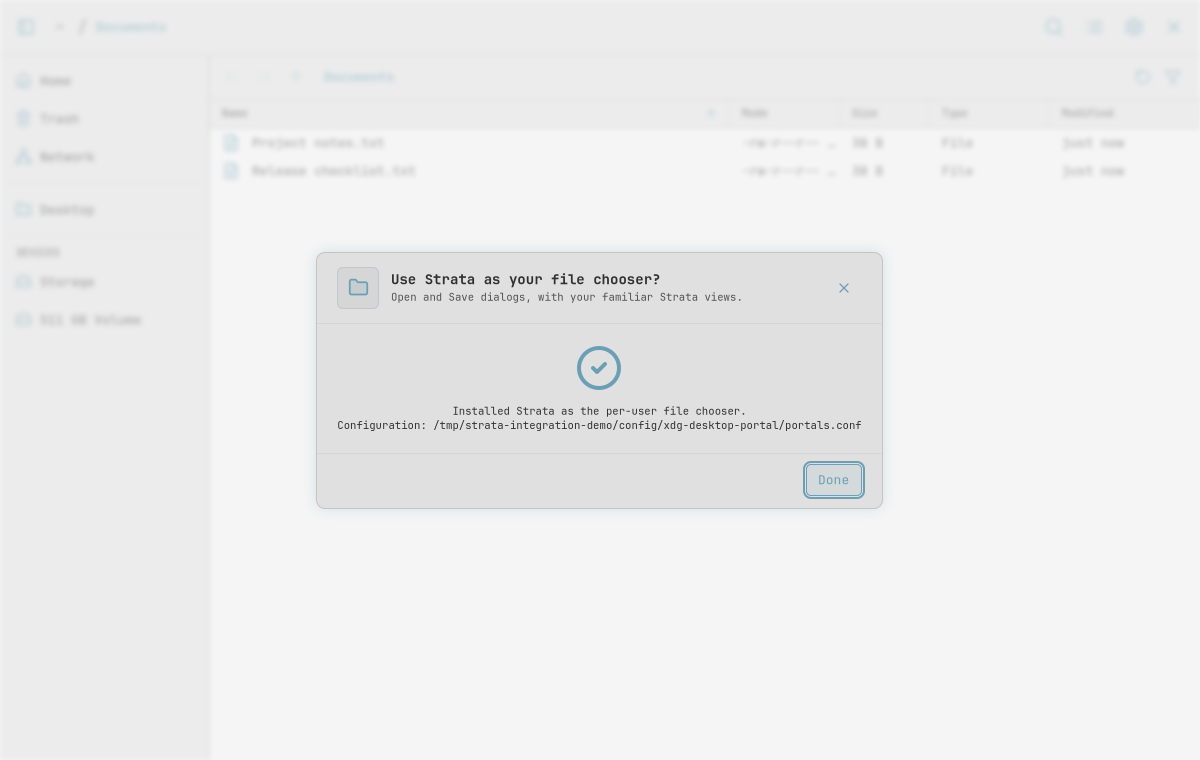
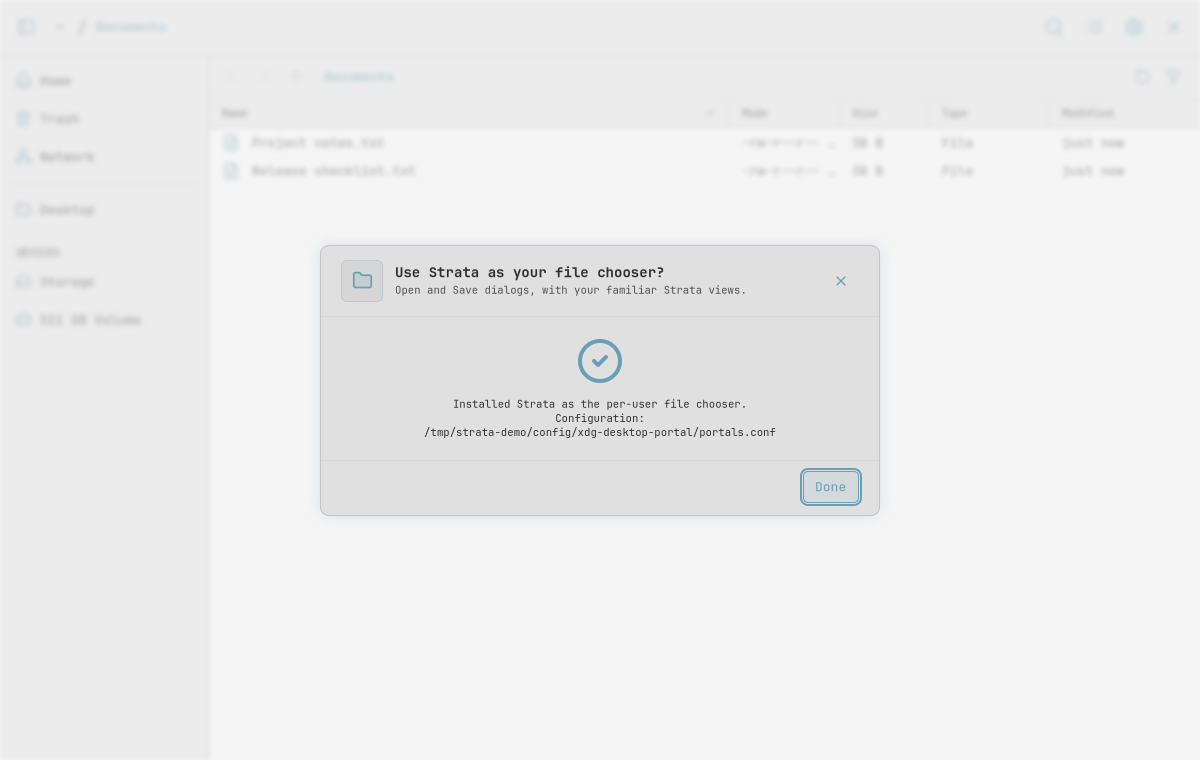
fix(portal): keep integration dialogs compact
Refs #120

diff --git a/src/ui/portal_preferences/tests.rs b/src/ui/portal_preferences/tests.rs
@@ -28,6 +28,14 @@ fn setup_copy_aligns_and_success_replaces_the_explanation() {
     gtk::init().expect("GTK display");
     gio::resources_register_include!("strata.gresource").expect("bundled icons");
     crate::ui::prepare_portal_ui();
+    let display = gtk::gdk::Display::default().expect("display");
+    let provider = gtk::CssProvider::new();
+    provider.load_from_string(".portal-setup-dialog { font-size: 16px; }");
+    gtk::style_context_add_provider_for_display(
+        &display,
+        &provider,
+        gtk::STYLE_PROVIDER_PRIORITY_APPLICATION + 1,
+    );
     for offer in [true, false] {
         let overlay = gtk::Overlay::new();
         let window = gtk::Window::builder()
@@ -51,17 +59,43 @@ fn setup_copy_aligns_and_success_replaces_the_explanation() {
         );
         assert!(description.is_mapped());
         assert!(!success.is_visible());
+        let content = status.parent().expect("body").parent().expect("dialog");
+        assert!(
+            content.width() <= 760,
+            "initial offer stays compact: {}",
+            content.width()
+        );
+        dialog
+            .confirm
+            .upgrade()
+            .expect("confirm")
+            .set_label("Restore previous chooser");
+        dialog.message("Strata is currently configured as your preferred file chooser. Restoring removes this integration and preserves unrelated configuration edits.", false);
+        settle();
+        assert!(
+            content.width() <= 760,
+            "configured Settings dialog stays compact: {}",
+            content.width()
+        );
         dialog.message("Setup failed; your previous chooser is unchanged.", true);
         assert!(status.has_css_class("error"));
+        settle();
+        assert!(content.width() <= 760);
         assert!(description.is_visible());
         assert!(!success.is_visible());
 
-        dialog.complete(
-            "Installed Strata as the per-user file chooser.\nConfiguration: /example/portals.conf",
-        );
+        dialog.complete(&format!(
+            "Installed Strata as the per-user file chooser.\nConfiguration: /example/{}/portals.conf",
+            "long-config-directory/".repeat(8),
+        ));
         settle();
         assert!(!description.is_visible());
         assert!(success.is_mapped());
+        assert!(
+            content.width() <= 760,
+            "long configuration paths wrap: {}",
+            content.width()
+        );
         let icon = success.paintable().expect("bundled success icon");
         crate::assets::set_primary_icon_color("#aabbcc");
         assert_ne!(success.paintable().expect("recolored success icon"), icon);
@@ -81,4 +115,5 @@ fn setup_copy_aligns_and_success_replaces_the_explanation() {
         assert!(dialog.finished.get());
         window.destroy();
     }
+    gtk::style_context_remove_provider_for_display(&display, &provider);
 }

diff --git a/src/ui/portal_preferences.rs b/src/ui/portal_preferences.rs
@@ -122,7 +122,18 @@ impl Dialog {
 
     fn message(&self, message: &str, error: bool) {
         if let Some(status) = self.status.upgrade() {
-            status.set_text(message);
+            status.set_text(
+                &message
+                    .lines()
+                    .map(|line| {
+                        super::controls::wrap_dialog_text(
+                            line,
+                            super::controls::MESSAGE_DIALOG_WIDTH_CHARS,
+                        )
+                    })
+                    .collect::<Vec<_>>()
+                    .join("\n"),
+            );
             if error {
                 status.add_css_class("error");
             } else {
@@ -281,9 +292,10 @@ fn build_dialog(parent: &gtk::Window, offer: bool) -> Option<Rc<Dialog>> {
     layout
         .cancel
         .set_label(if offer { "Not now" } else { "Cancel" });
-    let description = gtk::Label::new(Some(
+    let description = gtk::Label::new(Some(&super::controls::wrap_dialog_text(
         "Only apps using the desktop FileChooser portal are affected. Requires xdg-desktop-portal. Changing this setting restarts the portal service; close any open file dialogs first. Your default file manager and other portals are unchanged.",
-    ));
+        super::controls::MESSAGE_DIALOG_WIDTH_CHARS,
+    )));
     description.set_xalign(0.0);
     description.set_wrap(true);
     description.set_max_width_chars(super::controls::MESSAGE_DIALOG_WIDTH_CHARS as i32);

diff --git a/docs/screenshots/175/README.md b/docs/screenshots/175/README.md
@@ -15,6 +15,7 @@ After, captured using disposable sample files on a private D-Bus session:
 - `opt-in.png`, `opt-in-light.png`: the one-time, consent-only offer in Azure Glow and Classic Light, with matching paragraph insets.
 - `setup-success.png`, `setup-success-light.png`: the success state replaces the explanation with a theme-colored Lucide circle-check above the result.
 - `settings-integration.png`: permanent enable/restore access in Settings → General.
+- `settings-restore-before.png`, `settings-restore.png`, `settings-restore-light.png`: the configured integration dialog before and after applying the shared message-width wrapping, including Classic Light.
 
 The opt-in captures use isolated XDG directories and a private bus; service restart/reload commands were stubbed during installation/removal testing, so the installed desktop portal was never replaced.
 
